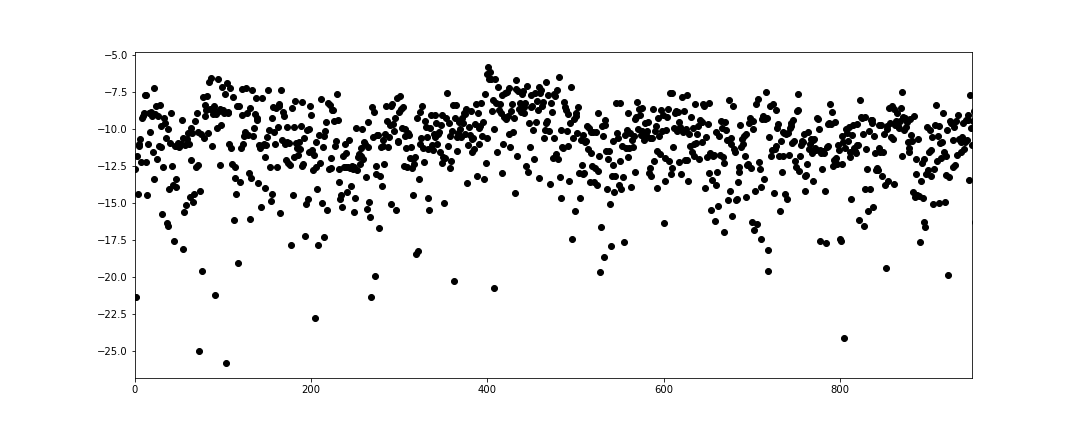
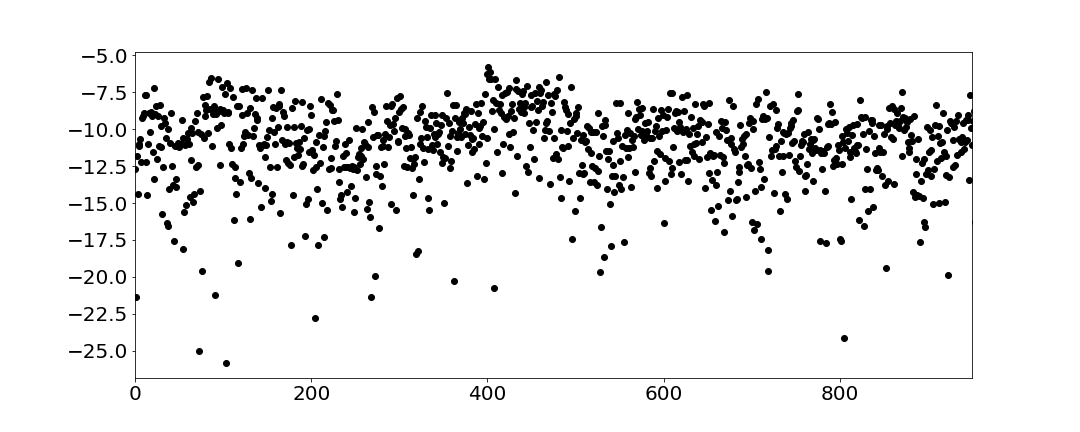
Made figures more readable

diff --git a/Scripts/Part2_Figures.py b/Scripts/Part2_Figures.py
@@ -3,6 +3,7 @@ import numpy as np
 import matplotlib.pyplot as plt
 
 FIG_PATH = '../Figures/Part_2'
+TICK_SIZE = 20
 
 def part_a_fig(df, data, y_lim=None, x_lim=(0,950)):
     """Part A plot of data in returns (original y_t)
@@ -12,6 +13,9 @@ def part_a_fig(df, data, y_lim=None, x_lim=(0,950)):
     plt.plot(df['y_t'])
     plt.ylim(y_lim)
     plt.xlim(x_lim)
+    plt.xticks(fontsize=TICK_SIZE)
+    plt.yticks(fontsize=TICK_SIZE)
+
     
     plt.savefig(f'{FIG_PATH}/part_a_{data}.png')
       
@@ -24,6 +28,8 @@ def part_b_fig(df, data, y_lim=None, x_lim=(0,950)):
     plt.scatter(df.index, df.x_t, color='black')
     plt.ylim(y_lim)
     plt.xlim(x_lim)
+    plt.xticks(fontsize=TICK_SIZE)
+    plt.yticks(fontsize=TICK_SIZE)
     
     plt.savefig(f'{FIG_PATH}/part_b_{data}.png')
   
@@ -37,11 +43,13 @@ def part_d_fig(ssm, data, beta = ''):
     fig, axes = plt.subplots(2,1, figsize=(15,12))
     axes[0].scatter(ssm.df.index, ssm.df['y_t'], color='black', alpha=.5)
     axes[0].plot(ssm.df.loc[2:, 'alpha_hat_t' + beta], 'red', linewidth=2, label = 'Smoothed ht')
-    axes[0].legend(loc='lower right')
+    axes[0].legend(loc='lower right', prop={'size': 18})
+    axes[0].tick_params(axis='both', labelsize=TICK_SIZE)
 
     # Ht = ht - xi WHERE xi = w/(1-phi) = -10.2089 from QML
     axes[1].plot(ssm.df.loc[4:, 'a_t'] - ssm.xi, 'blue', label = 'Filtered Ht')
     axes[1].plot(ssm.df.loc[2:, 'alpha_hat_t' + beta] - ssm.xi, 'red', label = 'Smoothed Ht')
-    axes[1].legend()
+    axes[1].legend(prop={'size': 18})
+    axes[1].tick_params(axis='both', labelsize=TICK_SIZE)
 
     plt.savefig(f'{FIG_PATH}/part_d_{data}{beta}.png')
